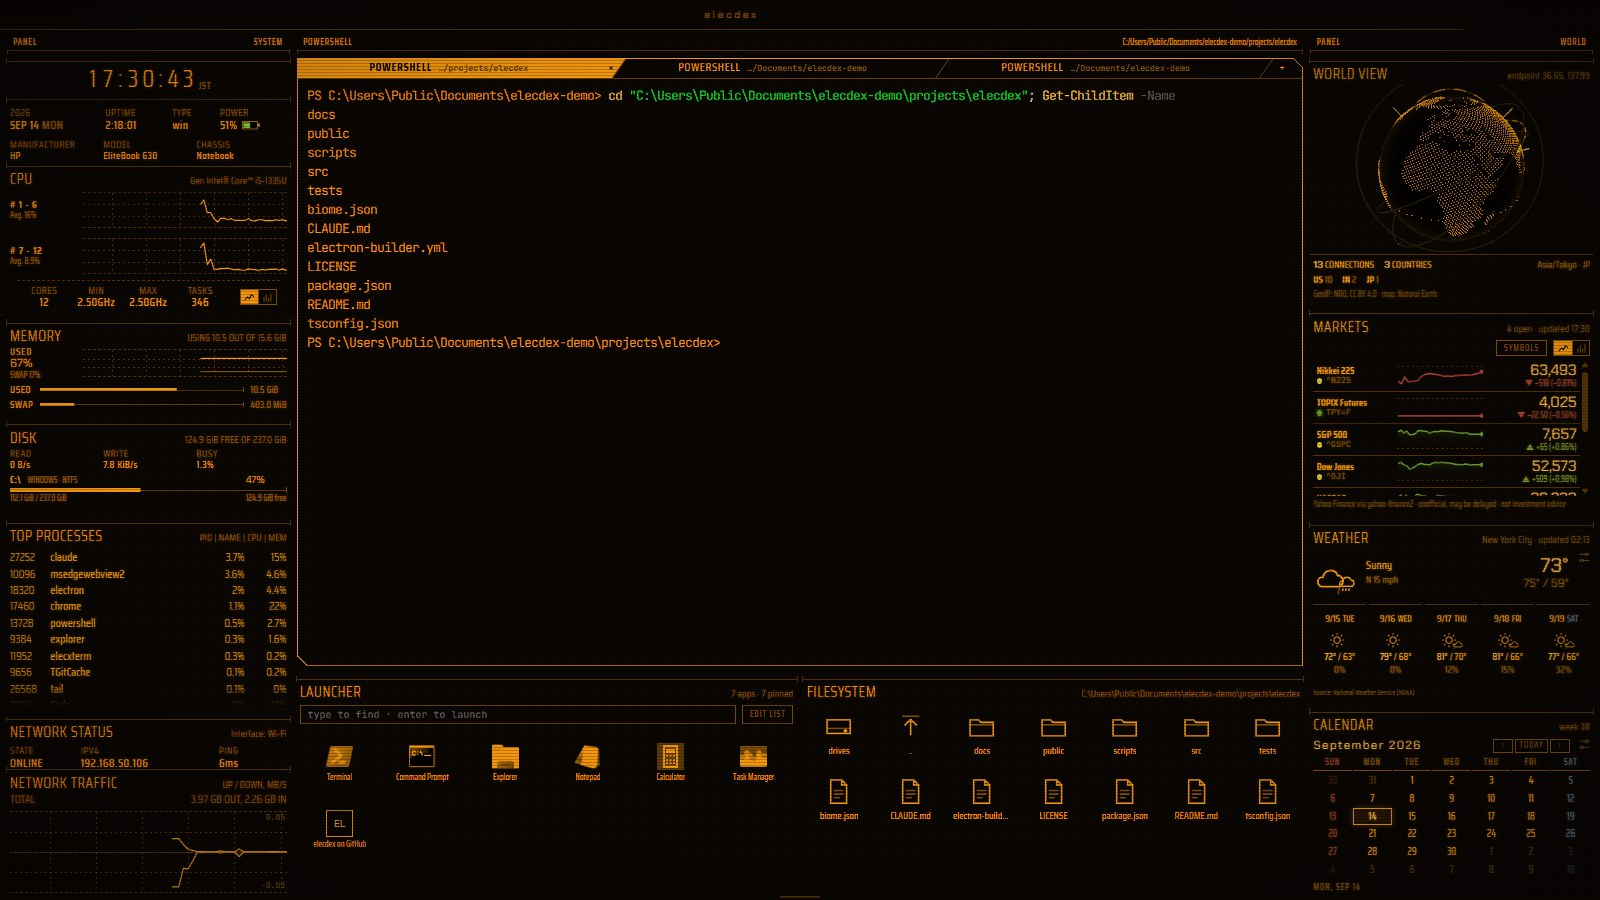
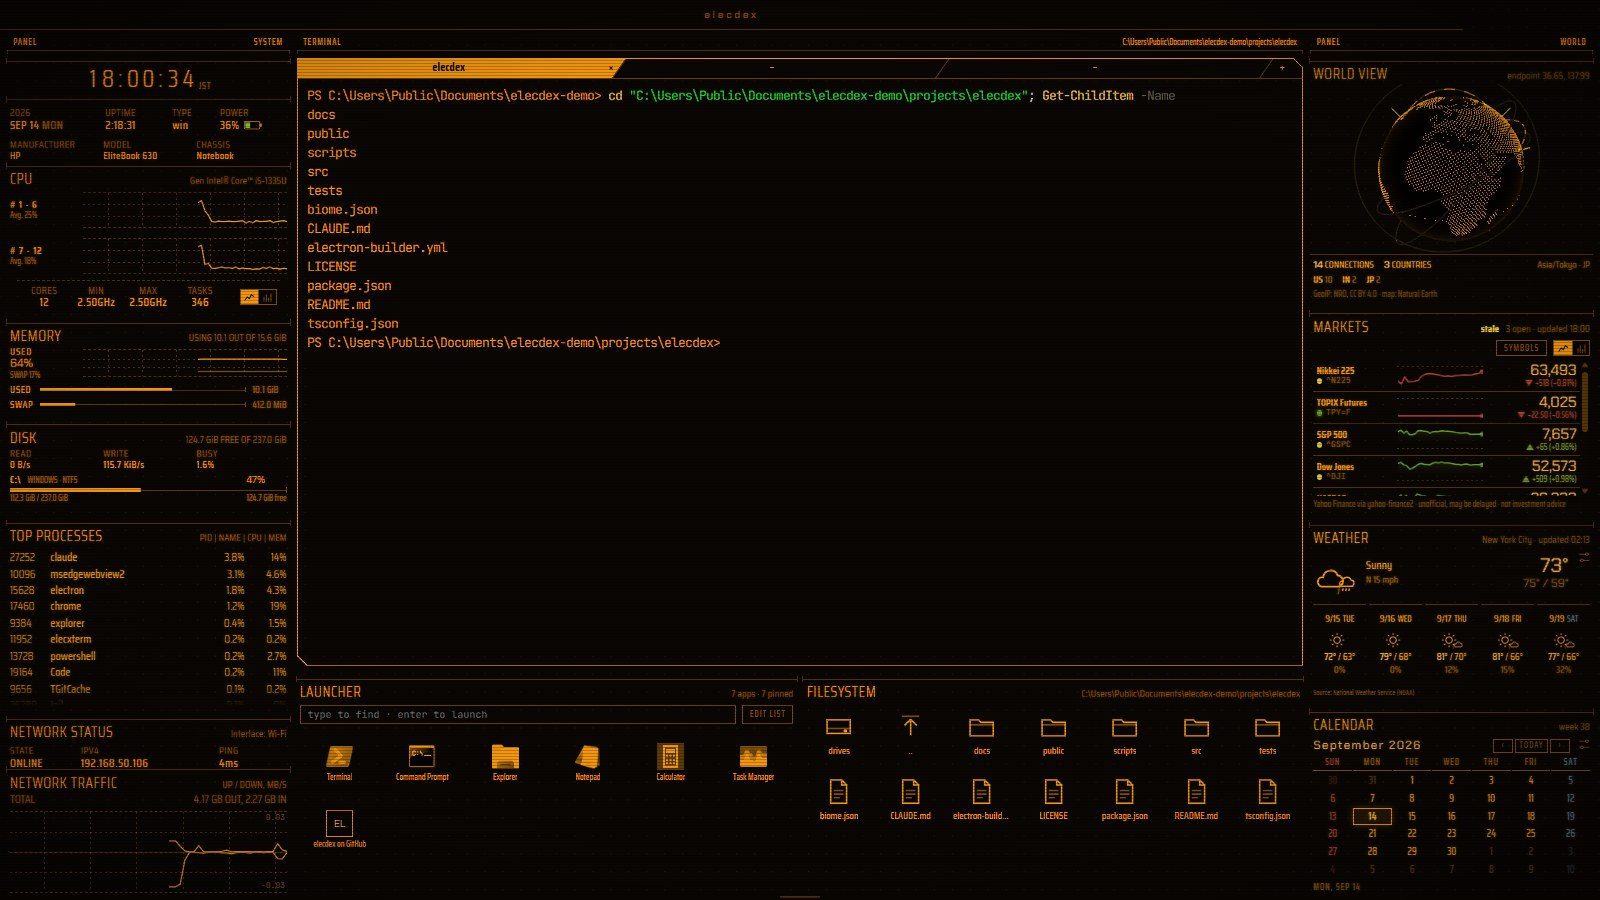
feat(terminal): shell panes headed TERMINAL, with tabs named by folder / シェルペインの見出しを TERMINAL にし、タブ名をフォルダ名に
The header shows TERMINAL and the selected shell's full path in the platform's own separators. Each tab is named after its folder, ~ for home, with parent folders added only when two tabs would read the same; the shell name is the fallback and the hover text. / 見出しは TERMINAL と、選択中のシェルのフルパスを OS の区切り文字で表示する。タブはフォルダ名（ホームは ~）で、同じ名前になるタブがあるときだけ親フォルダを足す。シェル名は場所が分かるまでの代わりとホバー表示に使う。

diff --git a/src/renderer/layout/tab-labels.ts b/src/renderer/layout/tab-labels.ts
@@ -1,0 +1,89 @@
+/**
+ * Names for shell tabs, taken from where each shell is.
+ *
+ * A tab is named after its working directory's last folder, as Windows Terminal
+ * and VS Code name theirs: the shell's name was the same on every tab and told
+ * them apart no better than nothing. Only tabs that would share a name get
+ * parent folders added, one at a time, until they differ. Pure, so the rules
+ * are unit-tested (tests/unit/tab-labels.test.ts).
+ */
+
+/** A Windows path: a drive letter, or a UNC share. */
+const WINDOWS_PATH = /^(?:[A-Za-z]:|\\\\|\/\/)/
+
+function isWindowsPath(path: string): boolean {
+  return WINDOWS_PATH.test(path)
+}
+
+/**
+ * A path as its platform writes it. Shell integration reports Windows paths
+ * with forward slashes (from a file:// URL), which read as foreign next to the
+ * file browser's backslashes.
+ */
+export function displayPath(path: string): string {
+  return isWindowsPath(path) ? path.replace(/\//g, '\\') : path
+}
+
+function segments(path: string): string[] {
+  return path.split(/[\\/]/).filter((part) => part !== '')
+}
+
+/** Paths compared as the platform would: Windows ignores case and the kind of slash. */
+function samePath(a: string, b: string): boolean {
+  const norm = (p: string) => {
+    const joined = segments(p).join('/')
+    return isWindowsPath(p) ? joined.toLowerCase() : joined
+  }
+  return norm(a) === norm(b)
+}
+
+/**
+ * The last `count` folders of a path, or its root when it has no folder. One more
+ * than it has is the whole path, root and all, the last way left to tell it apart.
+ */
+function tail(path: string, count: number): string {
+  const parts = segments(path)
+  const windows = isWindowsPath(path)
+  const separator = windows ? '\\' : '/'
+  // A drive root keeps its backslash (`C:\`); the POSIX root is `/`.
+  if (parts.length === 0) return separator
+  if (windows && parts.length === 1 && /^[A-Za-z]:$/.test(parts[0] ?? '')) return `${parts[0]}\\`
+  if (count > parts.length) return displayPath(path)
+  return parts.slice(-count).join(separator)
+}
+
+/**
+ * One label per path, `null` where a tab has no path (its shell has not said
+ * where it is). The home folder is `~`.
+ */
+export function tabLabels(
+  paths: readonly (string | null | undefined)[],
+  home?: string | null,
+): (string | null)[] {
+  const isHome = (path: string) => home != null && home !== '' && samePath(path, home)
+  const depth = paths.map(() => 1)
+  const label = (index: number): string | null => {
+    const path = paths[index]
+    if (path == null || path === '') return null
+    return isHome(path) ? '~' : tail(path, depth[index] ?? 1)
+  }
+
+  // Lengthen clashing labels until they differ. Each pass adds a folder to
+  // every tab in a clash whose path has one more to give, so it ends.
+  for (;;) {
+    const labels = paths.map((_, index) => label(index))
+    let grew = false
+    labels.forEach((text, index) => {
+      const path = paths[index]
+      if (text === null || text === '~' || path == null) return
+      const clash = labels.some(
+        (other, j) => j !== index && other === text && !samePath(paths[j] ?? '', path),
+      )
+      if (clash && (depth[index] ?? 1) <= segments(path).length) {
+        depth[index] = (depth[index] ?? 1) + 1
+        grew = true
+      }
+    })
+    if (!grew) return labels
+  }
+}

diff --git a/src/renderer/layout/TabStrip.svelte b/src/renderer/layout/TabStrip.svelte
@@ -1,9 +1,11 @@
 <script lang="ts">
 import type { PaneNode } from '@shared/schemas/layout'
+import { home } from '../stores/home.svelte.ts'
 import { layout } from '../stores/layout.svelte.ts'
 import { paneMeta } from '../stores/pane-meta.svelte.ts'
 import { resolveWidget } from '../widgets/registry.ts'
 import { dragHandle } from './pane-drag.svelte.ts'
+import { tabLabels } from './tab-labels.ts'
 
 /**
  * The strip of tabs along the top of a shell frame, with the + that opens another
@@ -22,13 +24,13 @@ const { panes, activeIndex }: Props = $props()
 
 const titleOf = (widget: string): string => resolveWidget(widget)?.title ?? widget
 
-/** Last two path segments are enough to orient without eating the tab. */
-function shorten(text: string | undefined): string {
-  if (text === undefined || text === '') return ''
-  const parts = text.split(/[\\/]/).filter((p) => p !== '')
-  if (parts.length <= 2) return text
-  return `…/${parts.slice(-2).join('/')}`
-}
+/** Shell tabs by folder, with parent folders only where two would read the same. */
+const places = $derived(
+  tabLabels(
+    panes.map((child) => paneMeta.get(child.id).tabPath),
+    home.path,
+  ),
+)
 </script>
 
 <!--
@@ -40,25 +42,27 @@ function shorten(text: string | undefined): string {
 <ul class="tabs" data-testid="tab-strip">
   {#each panes as child, index (child.id)}
     {@const meta = paneMeta.get(child.id)}
+    {@const place = places[index] ?? meta.tabName ?? null}
+    {@const name = place ?? meta.title ?? titleOf(child.widget)}
     <li class="tab" class:active={index === activeIndex}>
       <button
         type="button"
         class="select"
         onclick={() => layout.focus(child.id)}
-        {@attach dragHandle(child.id, () => meta.title ?? titleOf(child.widget))}
+        {@attach dragHandle(child.id, () => name)}
+        title={meta.tooltip}
         data-testid="tab"
         data-pane-id={child.id}
       >
         <span class="upright">
-          <span class="name">{meta.title ?? titleOf(child.widget)}</span>
-          {#if meta.subtitle}<span class="sub">{shorten(meta.subtitle)}</span>{/if}
+          <span class="name" class:place={place !== null} data-testid="tab-label">{name}</span>
           {#if meta.badge}<span class="badge {meta.badgeKind ?? 'danger'}">{meta.badge}</span>{/if}
         </span>
       </button>
       <button
         type="button"
         class="close"
-        aria-label={`Close ${meta.title ?? child.widget}`}
+        aria-label={`Close ${name}`}
         onclick={() => layout.close(child.id)}
         data-testid="tab-close"
         data-pane-id={child.id}><span class="upright">×</span></button
@@ -157,18 +161,15 @@ function shorten(text: string | undefined): string {
   background: transparent;
 }
 
-.name,
-.sub {
+.name {
   overflow: hidden;
   text-overflow: ellipsis;
 }
 
-.sub {
-  font-family: var(--font-mono);
-  font-size: var(--step--2);
+/* A folder name is data, not a label: its own case, as the file system has it. */
+.name.place {
   text-transform: none;
-  letter-spacing: 0;
-  opacity: 0.7;
+  letter-spacing: 0.02em;
 }
 
 .badge {

diff --git a/tests/e2e/terminal.spec.ts b/tests/e2e/terminal.spec.ts
@@ -1,4 +1,7 @@
+import { mkdirSync, mkdtempSync, rmSync } from 'node:fs'
 import { createServer } from 'node:net'
+import { tmpdir } from 'node:os'
+import path from 'node:path'
 import type { Page } from '@playwright/test'
 import { expect, test } from '@playwright/test'
 import { type Launched, launch, SINGLE_TERMINAL, terminalPane, typeInto } from './support.js'
@@ -514,5 +517,47 @@ test('every shell pane can grow its own tabs, and Ctrl+Alt+Shift+Arrow moves bet
     expect(await focusedPane()).not.toBe(rightSelected)
   } finally {
     await own.close()
+  }
+})
+
+test('a shell pane is headed TERMINAL, and its tabs are named by folder, with parents only on a clash', async () => {
+  const root = mkdtempSync(path.join(tmpdir(), 'elecdex-tabs-'))
+  const a = path.join(root, 'a', 'src')
+  const b = path.join(root, 'b', 'src')
+  mkdirSync(a, { recursive: true })
+  mkdirSync(b, { recursive: true })
+  const own = await launch(undefined, { layout: SINGLE_TERMINAL })
+  const p = own.page
+  const separator = path.sep
+  const labels = () => p.getByTestId('tab-label').allInnerTexts()
+  const visibleShell = () => p.locator('[data-testid=pane][data-widget=terminal]:not(.hidden)')
+  try {
+    const header = p.locator('header.hud-label > span').first()
+    // innerText, as shown: the header upper-cases the registry title.
+    await expect.poll(() => header.innerText()).toBe('TERMINAL')
+    // A new shell starts at home.
+    await expect.poll(labels, { timeout: 40_000 }).toEqual(['~'])
+
+    await typeInto(p, visibleShell(), `cd '${a}'`)
+    await expect.poll(labels, { timeout: 40_000 }).toEqual(['src'])
+    // The header keeps the full path, written as the platform writes it; the tab has it on hover.
+    const subtitle = visibleShell().getByTestId('pane-subtitle')
+    await expect(subtitle).toContainText(`a${separator}src`)
+    await expect(p.getByTestId('tab').first()).toHaveAttribute('title', /src$/)
+
+    await p.getByTestId('tab-new').click()
+    await expect.poll(labels, { timeout: 40_000 }).toEqual(['src', '~'])
+    await expect
+      .poll(() => p.getByTestId('tabs-host').locator('header.hud-label > span').first().innerText())
+      .toBe('TERMINAL')
+    await typeInto(p, visibleShell(), `cd '${b}'`)
+    await expect.poll(labels, { timeout: 40_000 }).toEqual([`a${separator}src`, `b${separator}src`])
+
+    // Once they no longer clash, both go back to the folder alone.
+    await typeInto(p, visibleShell(), `cd '${root}'`)
+    await expect.poll(labels, { timeout: 40_000 }).toEqual(['src', path.basename(root)])
+  } finally {
+    await own.close()
+    rmSync(root, { recursive: true, force: true })
   }
 })

diff --git a/tests/unit/tab-labels.test.ts b/tests/unit/tab-labels.test.ts
@@ -1,0 +1,61 @@
+import { describe, expect, it } from 'vitest'
+import { displayPath, tabLabels } from '../../src/renderer/layout/tab-labels.js'
+
+describe('displayPath', () => {
+  it('writes Windows paths with backslashes and leaves POSIX paths alone', () => {
+    expect(displayPath('C:/Users/me/projects')).toBe('C:\\Users\\me\\projects')
+    expect(displayPath('C:\\Users\\me')).toBe('C:\\Users\\me')
+    expect(displayPath('//server/share/dir')).toBe('\\\\server\\share\\dir')
+    expect(displayPath('/home/me/src')).toBe('/home/me/src')
+  })
+})
+
+describe('tabLabels', () => {
+  it('names a tab after its last folder, in its own case', () => {
+    expect(tabLabels(['C:/Users/me/Projects/elecDEX', '/home/me/Documents'])).toEqual([
+      'elecDEX',
+      'Documents',
+    ])
+  })
+
+  it('calls the home folder ~, however the platform spells it', () => {
+    expect(tabLabels(['C:/Users/Me', 'C:/Users/Me/work'], 'c:\\users\\me\\')).toEqual(['~', 'work'])
+    expect(tabLabels(['/home/me'], '/home/me')).toEqual(['~'])
+    // Case matters outside Windows.
+    expect(tabLabels(['/home/Me'], '/home/me')).toEqual(['Me'])
+  })
+
+  it('names roots by their root', () => {
+    expect(tabLabels(['C:/', 'D:\\', '/'])).toEqual(['C:\\', 'D:\\', '/'])
+  })
+
+  it('gives no label to a tab without a path', () => {
+    expect(tabLabels([undefined, null, '', '/tmp'])).toEqual([null, null, null, 'tmp'])
+  })
+
+  it('adds parent folders only to tabs that would read the same', () => {
+    expect(tabLabels(['C:/work/api/src', 'C:/work/web/src', 'C:/work/api/tests'])).toEqual([
+      'api\\src',
+      'web\\src',
+      'tests',
+    ])
+    expect(tabLabels(['/a/x/lib/src', '/b/x/lib/src', '/tmp'])).toEqual([
+      'a/x/lib/src',
+      'b/x/lib/src',
+      'tmp',
+    ])
+  })
+
+  it('stops at the whole path when one clashing path is shorter', () => {
+    expect(tabLabels(['/src', '/home/src'])).toEqual(['/src', 'home/src'])
+  })
+
+  it('leaves tabs in the same folder with the same name, and ignores Windows case', () => {
+    expect(tabLabels(['/home/me/src', '/home/me/src'])).toEqual(['src', 'src'])
+    expect(tabLabels(['C:/Work/src', 'c:\\work\\src'])).toEqual(['src', 'src'])
+  })
+
+  it('does not lengthen a folder that only clashes with the home folder', () => {
+    expect(tabLabels(['/home/me', '/srv/me'], '/home/me')).toEqual(['~', 'me'])
+  })
+})

diff --git a/src/renderer/widgets/terminal/TerminalWidget.svelte b/src/renderer/widgets/terminal/TerminalWidget.svelte
@@ -4,6 +4,7 @@ import { FitAddon } from '@xterm/addon-fit'
 import { Unicode11Addon } from '@xterm/addon-unicode11'
 import { WebglAddon } from '@xterm/addon-webgl'
 import { Terminal } from '@xterm/xterm'
+import { displayPath } from '../../layout/tab-labels.ts'
 import { releaseWebglContexts } from '../../lib/webgl.ts'
 import { appearance } from '../../stores/appearance.svelte.ts'
 import { boot } from '../../stores/boot.svelte.ts'
@@ -89,11 +90,17 @@ async function adoptSession(): Promise<string | null> {
 
 // Publish what the pane header and tab should show.
 $effect(() => {
+  // The header says TERMINAL (the registry title) and the tab says where the
+  // shell is; the shell's own name falls back to the tab until it reports that.
   paneMeta.set(paneId, {
-    title: info.shell,
+    tabName: info.shell,
     ...(info.cwd !== null
-      ? { subtitle: info.cwd }
-      : { subtitle: info.integrationPending ? '…' : 'no tracking' }),
+      ? {
+          subtitle: displayPath(info.cwd),
+          tabPath: info.cwd,
+          tooltip: `${info.shell} — ${displayPath(info.cwd)}`,
+        }
+      : { subtitle: info.integrationPending ? '…' : 'no tracking', tooltip: info.shell }),
     ...(info.exited !== null
       ? { badge: `exited ${info.exited.code}`, badgeKind: 'warn' as const }
       : info.lastCommand !== null &&

diff --git a/src/renderer/stores/pane-meta.svelte.ts b/src/renderer/stores/pane-meta.svelte.ts
@@ -15,6 +15,15 @@ export interface PaneMeta {
   title?: string
   /** Secondary line, e.g. the working directory. */
   subtitle?: string
+  /**
+   * The path a tab is named after (its last folder, see layout/tab-labels.ts),
+   * so a shell's tab shows where it is rather than what it is.
+   */
+  tabPath?: string
+  /** The tab's name while it has no path, e.g. the shell before it reports one. */
+  tabName?: string
+  /** The tab's full description, shown on hover and read out. */
+  tooltip?: string
   /** Short status marker, e.g. a non-zero exit code. */
   badge?: string
   badgeKind?: 'danger' | 'warn' | 'ok'

diff --git a/src/renderer/layout/TabsHost.svelte b/src/renderer/layout/TabsHost.svelte
@@ -17,7 +17,7 @@ const activeChild = $derived(node.children[node.activeIndex] ?? node.children[0]
 const activeMeta = $derived(activeChild ? paneMeta.get(activeChild.id) : {})
 const focused = $derived(node.children.some((c) => c.id === layout.focusedPaneId))
 
-/** The selected tab's own title where it has one (the shell's name), as a lone pane shows it. */
+/** The selected tab's own title where it has one, else its widget's (TERMINAL for a shell). */
 const activeTitle = $derived(
   activeChild
     ? (activeMeta.title ?? resolveWidget(activeChild.widget)?.title ?? activeChild.widget)

diff --git a/src/renderer/stores/home.svelte.ts b/src/renderer/stores/home.svelte.ts
@@ -1,0 +1,19 @@
+/**
+ * The user's home folder, asked of main once and shared, for labels that call it `~`.
+ */
+class HomeStore {
+  private value = $state<string | null>(null)
+  private asked = false
+
+  get path(): string | null {
+    if (!this.asked) {
+      this.asked = true
+      void window.elecdex.system.info().then((info) => {
+        this.value = info.host.home
+      })
+    }
+    return this.value
+  }
+}
+
+export const home = new HomeStore()

diff --git a/docs/architecture.md b/docs/architecture.md
@@ -631,6 +631,7 @@ Phase 2.5（任意・後続）: ドラッグによるペイン分割/移動UI、
 | BUSINESS テーマ、AMBER・PHOSPHOR の明るさ | 5 つ目の組み込みテーマ Business: Windows 11 のダークモードの色（背景 #202020、面 #1C1C1C / #2C2C2C、文字 #FFFFFF、補助文字 #9E9E9E、既定の青アクセントをダーク面に描く色 #60CDFF）、Segoe UI Variable と Cascadia Mono / Consolas、端末は Windows Terminal 既定の Campbell 配色、走査線・グローなし、グリッド線は背景と同色にして消す。文字色をアクセントから分けられるよう、テーマに任意の `text`（`primary` / `muted`）を追加し、トークンに `--text-base` / `--text-muted-base` を置いた（省略時は従来どおりアクセント、muted は半分の濃さ）。Amber は accent s 100 / l 58 → 90 / 50、グロー 0.45 → 0.35、Phosphor は s 72 / l 60 → 60 / 48、グロー 0.4 → 0.3（RGB の最大チャンネルが 1.0 と 0.89 で、グローと重なって眩しかった） | 仕事中に使える普通のアプリの見た目には、文字がアクセント色一色の HUD では足りず、文字だけ中立色にする必要があった。枠やハイライトはアクセントのまま残し、フォーカスの目印にする |
 | BUSINESS (LIGHT) テーマ | Business を Business (Dark)（id `business-dark`）に改め、白系の Business (Light)（`business-light`）を追加: Windows 11 ライトモードの色（背景 #F3F3F3、カード #FFFFFF、文字 #1A1A1A、補助文字 #5F5F5F、既定の青アクセントを明るい面に描く色 #005FB8）、端末は Windows Terminal の One Half Light。テーマに任意の `mode`（dark / light）を追加し、`data-mode="light"` のとき tokens.css で状態色（danger / warn / ok / info）の明度を下げ、`--accent-strong` を明るくではなく暗くする。端末は light のとき xterm の `minimumContrastRatio` を 4.5 にする | 既存の色は黒地で光る前提で、白地では警告の黄色が読めず、シェルや PSReadLine が出す白・明るい黄色の文字が消えた（実際のスクリーンショットで確認）。ANSI 色を個別に暗く作り替えるより、xterm に WCAG AA を満たすまで補正させる方が、どのシェルの配色でも読める |
 | Business テーマのランチャーアイコンを原色に | テーマの `effects.iconTint`（既定 true）を追加し、false のとき `data-icons="color"` でランチャーのアイコンのマスク・グレースケール・乗算をやめ、元の色で表示する。Business (Dark) / (Light) は false。README のスクリーンショットは組み込みテーマ全6種と設定ダイアログを scripts/gen-screenshots.mjs で撮る | HUD テーマではアクセント色に揃えることで一体感を出すが、仕事用のテーマではスタートメニューと同じ見慣れた色の方がアプリを見分けやすい |
+| シェルペインの見出しとタブ名 | 見出しの左はシェル名ではなく TERMINAL（レジストリのタイトル）、右は選択中タブのフルパス（Windows では `` 区切りに統一）。タブはフォルダ名だけ（ホームは `~`、ドライブ直下は `C:`、大文字小文字はそのまま）で、同じ名前になるタブがあるときだけ親フォルダを1段ずつ足す（layout/tab-labels.ts、純関数で単体テスト）。作業フォルダが分からない間はシェル名、ホバーでシェル名とフルパス | 見出しとタブの両方にシェル名、見出しとタブの両方にパスが出て冗長だった。既定シェル1種類ではシェル名はタブを見分ける役に立たず、Windows Terminal や VS Code と同じく場所で見分ける方が速い（ユーザーと合意、2026-09-14） |
 
 ## 17. 既知の問題
 

diff --git a/README.md b/README.md
@@ -145,8 +145,10 @@ CPU, memory, disk, top processes, network status and traffic; **centre, work:** 
 over the launcher and the file browser; **right, the world outside:** world view, markets,
 weather and calendar.
 
-- **Terminal** — tabs show the shell and its directory; a non-zero exit code is flagged on the
-  pane. New shells start in the home folder, or in the folder set under *Settings → General →
+- **Terminal** — the pane is headed TERMINAL with the selected shell's full path; each tab is
+  named after its folder (`~` for home), with parent folders added only when two tabs would read
+  the same, and shows the shell and full path on hover. A non-zero exit code is flagged on the
+  tab. New shells start in the home folder, or in the folder set under *Settings → General →
   Terminal* ("~" for home; a folder that no longer exists falls back to home).
 - **System** — date and weekday, uptime, OS, and power with a battery gauge (green, red below 20%).
 - **CPU** — two graphs of the cores' average load, or a bar per logical core (toggle in the pane).
